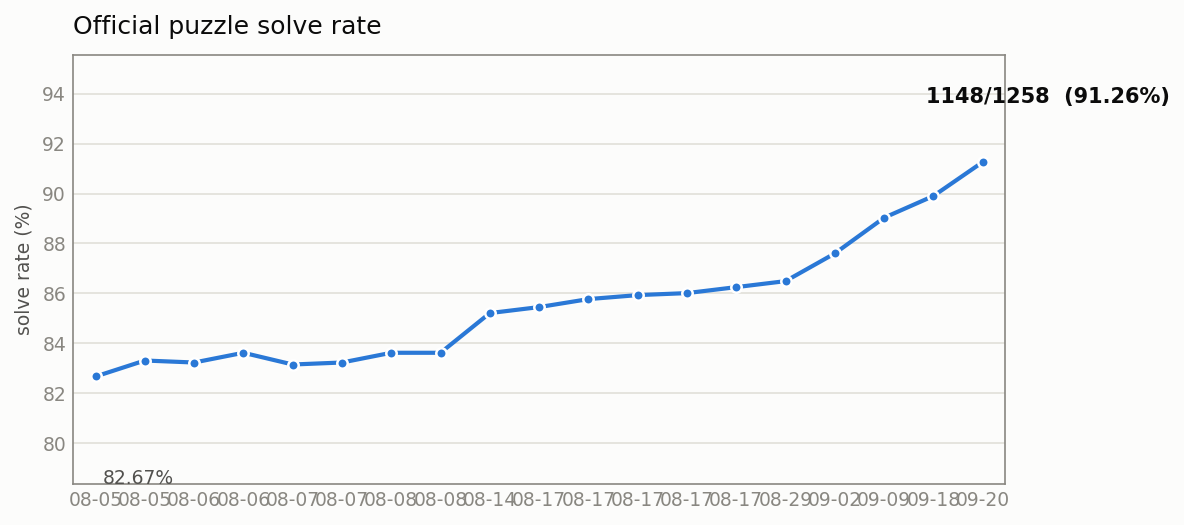
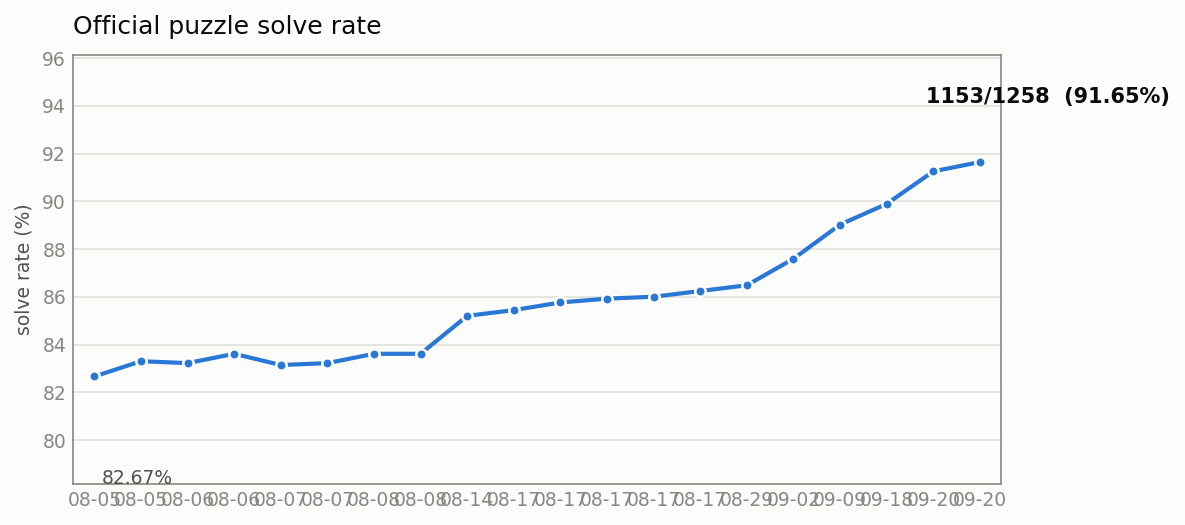
chore: 进度图更新至 1153/1258（91.65%）
追加 2026-09-20 里程碑（23d9b28/7ef7fc4）：boxy 单洞 + size_sep 合并
过度剪枝修复，新解 9 道 via edge_csp。较 1130 基线净 +23。

diff --git a/web/public/trend/index.html b/web/public/trend/index.html
@@ -68,123 +68,128 @@ a { color: var(--series); }
   <h1>官方谜题求解能力变化</h1>
   <p class="sub">官方谜题 (puzzles/official, 排除 -answer 目录) · 共 1258 题 · 数据源 docs/solver-history.json</p>
   <div class="hero">
-    <span class="num">91.26%</span>
-    <span class="unit">1148 / 1258 题解出</span>
+    <span class="num">91.65%</span>
+    <span class="unit">1153 / 1258 题解出</span>
   </div>
-  <span class="delta">较上次 ▲ <span class="up">1.36%</span>（1148/1258）</span>
+  <span class="delta">较上次 ▲ <span class="up">0.39%</span>（1153/1258）</span>
   <div id="chart-wrap" style="position:relative"><div class="tooltip" id="tooltip" style="visibility:hidden"></div><svg id="chart" viewBox="0 0 840 380" role="img" aria-label="官方题求解率变化曲线">
 <line class="grid" x1="60" y1="340.0" x2="816" y2="340.0"/>
-<text class="axis" x="50" y="344.0" text-anchor="end">79.7%</text>
+<text class="axis" x="50" y="344.0" text-anchor="end">79.5%</text>
 <line class="grid" x1="60" y1="234.7" x2="816" y2="234.7"/>
-<text class="axis" x="50" y="238.7" text-anchor="end">84.5%</text>
+<text class="axis" x="50" y="238.7" text-anchor="end">84.6%</text>
 <line class="grid" x1="60" y1="129.3" x2="816" y2="129.3"/>
-<text class="axis" x="50" y="133.3" text-anchor="end">89.4%</text>
+<text class="axis" x="50" y="133.3" text-anchor="end">89.7%</text>
 <line class="grid" x1="60" y1="24.0" x2="816" y2="24.0"/>
-<text class="axis" x="50" y="28.0" text-anchor="end">94.3%</text>
-<polyline class="line" points="60.0,274.9 102.0,261.1 144.0,262.8 186.0,254.4 228.0,264.6 270.0,262.8 312.0,254.4 354.0,254.4 396.0,220.0 438.0,214.8 480.0,207.9 522.0,204.4 564.0,202.7 606.0,197.5 648.0,192.3 690.0,168.3 732.0,137.3 774.0,118.5 816.0,89.1" fill="none"/>
+<text class="axis" x="50" y="28.0" text-anchor="end">94.8%</text>
+<polyline class="line" points="60.0,274.9 99.8,261.7 139.6,263.3 179.4,255.3 219.2,265.0 258.9,263.3 298.7,255.3 338.5,255.3 378.3,222.4 418.1,217.4 457.9,210.8 497.7,207.5 537.5,205.8 577.3,200.8 617.1,195.9 656.8,172.9 696.6,143.3 736.4,125.3 776.2,97.1 816.0,89.1" fill="none"/>
 <circle class="point" cx="60.0" cy="274.9" r="4.5">
 <title>2026-08-05  33d32c5
 1040/1258  (82.67%)</title>
 </circle>
 <text class="axis" x="60.0" y="366" text-anchor="middle">08-05</text>
-<circle class="point" cx="102.0" cy="261.1" r="4.5">
+<circle class="point" cx="99.8" cy="261.7" r="4.5">
 <title>2026-08-05  4733f59
 1048/1258  (83.31%)</title>
 </circle>
-<text class="axis" x="102.0" y="366" text-anchor="middle">08-05</text>
-<circle class="point" cx="144.0" cy="262.8" r="4.5">
+<text class="axis" x="99.8" y="366" text-anchor="middle">08-05</text>
+<circle class="point" cx="139.6" cy="263.3" r="4.5">
 <title>2026-08-06  7e569e7
 1047/1258  (83.23%)</title>
 </circle>
-<text class="axis" x="144.0" y="366" text-anchor="middle">08-06</text>
-<circle class="point" cx="186.0" cy="254.4" r="4.5">
+<text class="axis" x="139.6" y="366" text-anchor="middle">08-06</text>
+<circle class="point" cx="179.4" cy="255.3" r="4.5">
 <title>2026-08-06  dfadfe3
 1052/1258  (83.62%)</title>
 </circle>
-<text class="axis" x="186.0" y="366" text-anchor="middle">08-06</text>
-<circle class="point" cx="228.0" cy="264.6" r="4.5">
+<text class="axis" x="179.4" y="366" text-anchor="middle">08-06</text>
+<circle class="point" cx="219.2" cy="265.0" r="4.5">
 <title>2026-08-07  6169df3
 1046/1258  (83.15%)</title>
 </circle>
-<text class="axis" x="228.0" y="366" text-anchor="middle">08-07</text>
-<circle class="point" cx="270.0" cy="262.8" r="4.5">
+<text class="axis" x="219.2" y="366" text-anchor="middle">08-07</text>
+<circle class="point" cx="258.9" cy="263.3" r="4.5">
 <title>2026-08-07  cd40cab
 1047/1258  (83.23%)</title>
 </circle>
-<text class="axis" x="270.0" y="366" text-anchor="middle">08-07</text>
-<circle class="point" cx="312.0" cy="254.4" r="4.5">
+<text class="axis" x="258.9" y="366" text-anchor="middle">08-07</text>
+<circle class="point" cx="298.7" cy="255.3" r="4.5">
 <title>2026-08-08  bd2f5f5
 1052/1258  (83.62%)</title>
 </circle>
-<text class="axis" x="312.0" y="366" text-anchor="middle">08-08</text>
-<circle class="point" cx="354.0" cy="254.4" r="4.5">
+<text class="axis" x="298.7" y="366" text-anchor="middle">08-08</text>
+<circle class="point" cx="338.5" cy="255.3" r="4.5">
 <title>2026-08-08  shape-cap-aog
 1052/1258  (83.62%)</title>
 </circle>
-<text class="axis" x="354.0" y="366" text-anchor="middle">08-08</text>
-<circle class="point" cx="396.0" cy="220.0" r="4.5">
+<text class="axis" x="338.5" y="366" text-anchor="middle">08-08</text>
+<circle class="point" cx="378.3" cy="222.4" r="4.5">
 <title>2026-08-14  edge-csp-solver
 1072/1258  (85.21%)</title>
 </circle>
-<text class="axis" x="396.0" y="366" text-anchor="middle">08-14</text>
-<circle class="point" cx="438.0" cy="214.8" r="4.5">
+<text class="axis" x="378.3" y="366" text-anchor="middle">08-14</text>
+<circle class="point" cx="418.1" cy="217.4" r="4.5">
 <title>2026-08-17  8758659
 1075/1258  (85.45%)</title>
 </circle>
-<text class="axis" x="438.0" y="366" text-anchor="middle">08-17</text>
-<circle class="point" cx="480.0" cy="207.9" r="4.5">
+<text class="axis" x="418.1" y="366" text-anchor="middle">08-17</text>
+<circle class="point" cx="457.9" cy="210.8" r="4.5">
 <title>2026-08-17  dbe2f65
 1079/1258  (85.77%)</title>
 </circle>
-<text class="axis" x="480.0" y="366" text-anchor="middle">08-17</text>
-<circle class="point" cx="522.0" cy="204.4" r="4.5">
+<text class="axis" x="457.9" y="366" text-anchor="middle">08-17</text>
+<circle class="point" cx="497.7" cy="207.5" r="4.5">
 <title>2026-08-17  04ea400
 1081/1258  (85.93%)</title>
 </circle>
-<text class="axis" x="522.0" y="366" text-anchor="middle">08-17</text>
-<circle class="point" cx="564.0" cy="202.7" r="4.5">
+<text class="axis" x="497.7" y="366" text-anchor="middle">08-17</text>
+<circle class="point" cx="537.5" cy="205.8" r="4.5">
 <title>2026-08-17  d3d9c52
 1082/1258  (86.01%)</title>
 </circle>
-<text class="axis" x="564.0" y="366" text-anchor="middle">08-17</text>
-<circle class="point" cx="606.0" cy="197.5" r="4.5">
+<text class="axis" x="537.5" y="366" text-anchor="middle">08-17</text>
+<circle class="point" cx="577.3" cy="200.8" r="4.5">
 <title>2026-08-17  150005f
 1085/1258  (86.25%)</title>
 </circle>
-<text class="axis" x="606.0" y="366" text-anchor="middle">08-17</text>
-<circle class="point" cx="648.0" cy="192.3" r="4.5">
+<text class="axis" x="577.3" y="366" text-anchor="middle">08-17</text>
+<circle class="point" cx="617.1" cy="195.9" r="4.5">
 <title>2026-08-29  4be9922
 1088/1258  (86.49%)</title>
 </circle>
-<text class="axis" x="648.0" y="366" text-anchor="middle">08-29</text>
-<circle class="point" cx="690.0" cy="168.3" r="4.5">
+<text class="axis" x="617.1" y="366" text-anchor="middle">08-29</text>
+<circle class="point" cx="656.8" cy="172.9" r="4.5">
 <title>2026-09-02  c10e181
 1102/1258  (87.60%)</title>
 </circle>
-<text class="axis" x="690.0" y="366" text-anchor="middle">09-02</text>
-<circle class="point" cx="732.0" cy="137.3" r="4.5">
+<text class="axis" x="656.8" y="366" text-anchor="middle">09-02</text>
+<circle class="point" cx="696.6" cy="143.3" r="4.5">
 <title>2026-09-09  a04a4ad
 1120/1258  (89.03%)</title>
 </circle>
-<text class="axis" x="732.0" y="366" text-anchor="middle">09-09</text>
-<circle class="point" cx="774.0" cy="118.5" r="4.5">
+<text class="axis" x="696.6" y="366" text-anchor="middle">09-09</text>
+<circle class="point" cx="736.4" cy="125.3" r="4.5">
 <title>2026-09-18  3444bec
 1131/1258  (89.90%)</title>
 </circle>
-<text class="axis" x="774.0" y="366" text-anchor="middle">09-18</text>
-<circle class="point" cx="816.0" cy="89.1" r="4.5">
+<text class="axis" x="736.4" y="366" text-anchor="middle">09-18</text>
+<circle class="point" cx="776.2" cy="97.1" r="4.5">
 <title>2026-09-20  804b88c
 1148/1258  (91.26%)</title>
+</circle>
+<text class="axis" x="776.2" y="366" text-anchor="middle">09-20</text>
+<circle class="point" cx="816.0" cy="89.1" r="4.5">
+<title>2026-09-20  7ef7fc4
+1153/1258  (91.65%)</title>
 </circle>
 <text class="axis" x="816.0" y="366" text-anchor="middle">09-20</text>
 <line class="crosshair" id="crosshair" y1="0" y2="0" visibility="hidden"/>
 </svg></div>
-  <table><thead><tr><th>日期</th><th>commit</th><th class='num'>通过</th><th class='num'>占比</th></tr></thead><tbody><tr class="latest"><td>2026-09-20</td><td>804b88c</td><td class="num">1148/1258</td><td class="num">91.26%</td></tr><tr><td>2026-09-18</td><td>3444bec</td><td class="num">1131/1258</td><td class="num">89.90%</td></tr><tr><td>2026-09-09</td><td>a04a4ad</td><td class="num">1120/1258</td><td class="num">89.03%</td></tr><tr><td>2026-09-02</td><td>c10e181</td><td class="num">1102/1258</td><td class="num">87.60%</td></tr><tr><td>2026-08-29</td><td>4be9922</td><td class="num">1088/1258</td><td class="num">86.49%</td></tr><tr><td>2026-08-17</td><td>150005f</td><td class="num">1085/1258</td><td class="num">86.25%</td></tr><tr><td>2026-08-17</td><td>d3d9c52</td><td class="num">1082/1258</td><td class="num">86.01%</td></tr><tr><td>2026-08-17</td><td>04ea400</td><td class="num">1081/1258</td><td class="num">85.93%</td></tr><tr><td>2026-08-17</td><td>dbe2f65</td><td class="num">1079/1258</td><td class="num">85.77%</td></tr><tr><td>2026-08-17</td><td>8758659</td><td class="num">1075/1258</td><td class="num">85.45%</td></tr><tr><td>2026-08-14</td><td>edge-csp-solver</td><td class="num">1072/1258</td><td class="num">85.21%</td></tr><tr><td>2026-08-08</td><td>shape-cap-aog</td><td class="num">1052/1258</td><td class="num">83.62%</td></tr><tr><td>2026-08-08</td><td>bd2f5f5</td><td class="num">1052/1258</td><td class="num">83.62%</td></tr><tr><td>2026-08-07</td><td>cd40cab</td><td class="num">1047/1258</td><td class="num">83.23%</td></tr><tr><td>2026-08-07</td><td>6169df3</td><td class="num">1046/1258</td><td class="num">83.15%</td></tr><tr><td>2026-08-06</td><td>dfadfe3</td><td class="num">1052/1258</td><td class="num">83.62%</td></tr><tr><td>2026-08-06</td><td>7e569e7</td><td class="num">1047/1258</td><td class="num">83.23%</td></tr><tr><td>2026-08-05</td><td>4733f59</td><td class="num">1048/1258</td><td class="num">83.31%</td></tr><tr><td>2026-08-05</td><td>33d32c5</td><td class="num">1040/1258</td><td class="num">82.67%</td></tr></tbody></table>
+  <table><thead><tr><th>日期</th><th>commit</th><th class='num'>通过</th><th class='num'>占比</th></tr></thead><tbody><tr class="latest"><td>2026-09-20</td><td>7ef7fc4</td><td class="num">1153/1258</td><td class="num">91.65%</td></tr><tr><td>2026-09-20</td><td>804b88c</td><td class="num">1148/1258</td><td class="num">91.26%</td></tr><tr><td>2026-09-18</td><td>3444bec</td><td class="num">1131/1258</td><td class="num">89.90%</td></tr><tr><td>2026-09-09</td><td>a04a4ad</td><td class="num">1120/1258</td><td class="num">89.03%</td></tr><tr><td>2026-09-02</td><td>c10e181</td><td class="num">1102/1258</td><td class="num">87.60%</td></tr><tr><td>2026-08-29</td><td>4be9922</td><td class="num">1088/1258</td><td class="num">86.49%</td></tr><tr><td>2026-08-17</td><td>150005f</td><td class="num">1085/1258</td><td class="num">86.25%</td></tr><tr><td>2026-08-17</td><td>d3d9c52</td><td class="num">1082/1258</td><td class="num">86.01%</td></tr><tr><td>2026-08-17</td><td>04ea400</td><td class="num">1081/1258</td><td class="num">85.93%</td></tr><tr><td>2026-08-17</td><td>dbe2f65</td><td class="num">1079/1258</td><td class="num">85.77%</td></tr><tr><td>2026-08-17</td><td>8758659</td><td class="num">1075/1258</td><td class="num">85.45%</td></tr><tr><td>2026-08-14</td><td>edge-csp-solver</td><td class="num">1072/1258</td><td class="num">85.21%</td></tr><tr><td>2026-08-08</td><td>shape-cap-aog</td><td class="num">1052/1258</td><td class="num">83.62%</td></tr><tr><td>2026-08-08</td><td>bd2f5f5</td><td class="num">1052/1258</td><td class="num">83.62%</td></tr><tr><td>2026-08-07</td><td>cd40cab</td><td class="num">1047/1258</td><td class="num">83.23%</td></tr><tr><td>2026-08-07</td><td>6169df3</td><td class="num">1046/1258</td><td class="num">83.15%</td></tr><tr><td>2026-08-06</td><td>dfadfe3</td><td class="num">1052/1258</td><td class="num">83.62%</td></tr><tr><td>2026-08-06</td><td>7e569e7</td><td class="num">1047/1258</td><td class="num">83.23%</td></tr><tr><td>2026-08-05</td><td>4733f59</td><td class="num">1048/1258</td><td class="num">83.31%</td></tr><tr><td>2026-08-05</td><td>33d32c5</td><td class="num">1040/1258</td><td class="num">82.67%</td></tr></tbody></table>
   <p class="sub" style="margin-top:24px">曲线纵轴为缩放后的求解率区间（非 0–100），
   以突出小幅变化；完整数值见下表与仓库内 <code>docs/solver-history.json</code>。</p>
 </div>
 <script>
-const DATA = [{"date": "2026-08-05", "commit": "33d32c5", "passed": 1040, "total": 1258, "pct": 82.67}, {"date": "2026-08-05", "commit": "4733f59", "passed": 1048, "total": 1258, "pct": 83.31}, {"date": "2026-08-06", "commit": "7e569e7", "passed": 1047, "total": 1258, "pct": 83.23}, {"date": "2026-08-06", "commit": "dfadfe3", "passed": 1052, "total": 1258, "pct": 83.62}, {"date": "2026-08-07", "commit": "6169df3", "passed": 1046, "total": 1258, "pct": 83.15}, {"date": "2026-08-07", "commit": "cd40cab", "passed": 1047, "total": 1258, "pct": 83.23}, {"date": "2026-08-08", "commit": "bd2f5f5", "passed": 1052, "total": 1258, "pct": 83.62}, {"date": "2026-08-08", "commit": "shape-cap-aog", "passed": 1052, "total": 1258, "pct": 83.62}, {"date": "2026-08-14", "commit": "edge-csp-solver", "passed": 1072, "total": 1258, "pct": 85.21}, {"date": "2026-08-17", "commit": "8758659", "passed": 1075, "total": 1258, "pct": 85.45}, {"date": "2026-08-17", "commit": "dbe2f65", "passed": 1079, "total": 1258, "pct": 85.77}, {"date": "2026-08-17", "commit": "04ea400", "passed": 1081, "total": 1258, "pct": 85.93}, {"date": "2026-08-17", "commit": "d3d9c52", "passed": 1082, "total": 1258, "pct": 86.01}, {"date": "2026-08-17", "commit": "150005f", "passed": 1085, "total": 1258, "pct": 86.25}, {"date": "2026-08-29", "commit": "4be9922", "passed": 1088, "total": 1258, "pct": 86.49}, {"date": "2026-09-02", "commit": "c10e181", "passed": 1102, "total": 1258, "pct": 87.6}, {"date": "2026-09-09", "commit": "a04a4ad", "passed": 1120, "total": 1258, "pct": 89.03}, {"date": "2026-09-18", "commit": "3444bec", "passed": 1131, "total": 1258, "pct": 89.9}, {"date": "2026-09-20", "commit": "804b88c", "passed": 1148, "total": 1258, "pct": 91.26}];
+const DATA = [{"date": "2026-08-05", "commit": "33d32c5", "passed": 1040, "total": 1258, "pct": 82.67}, {"date": "2026-08-05", "commit": "4733f59", "passed": 1048, "total": 1258, "pct": 83.31}, {"date": "2026-08-06", "commit": "7e569e7", "passed": 1047, "total": 1258, "pct": 83.23}, {"date": "2026-08-06", "commit": "dfadfe3", "passed": 1052, "total": 1258, "pct": 83.62}, {"date": "2026-08-07", "commit": "6169df3", "passed": 1046, "total": 1258, "pct": 83.15}, {"date": "2026-08-07", "commit": "cd40cab", "passed": 1047, "total": 1258, "pct": 83.23}, {"date": "2026-08-08", "commit": "bd2f5f5", "passed": 1052, "total": 1258, "pct": 83.62}, {"date": "2026-08-08", "commit": "shape-cap-aog", "passed": 1052, "total": 1258, "pct": 83.62}, {"date": "2026-08-14", "commit": "edge-csp-solver", "passed": 1072, "total": 1258, "pct": 85.21}, {"date": "2026-08-17", "commit": "8758659", "passed": 1075, "total": 1258, "pct": 85.45}, {"date": "2026-08-17", "commit": "dbe2f65", "passed": 1079, "total": 1258, "pct": 85.77}, {"date": "2026-08-17", "commit": "04ea400", "passed": 1081, "total": 1258, "pct": 85.93}, {"date": "2026-08-17", "commit": "d3d9c52", "passed": 1082, "total": 1258, "pct": 86.01}, {"date": "2026-08-17", "commit": "150005f", "passed": 1085, "total": 1258, "pct": 86.25}, {"date": "2026-08-29", "commit": "4be9922", "passed": 1088, "total": 1258, "pct": 86.49}, {"date": "2026-09-02", "commit": "c10e181", "passed": 1102, "total": 1258, "pct": 87.6}, {"date": "2026-09-09", "commit": "a04a4ad", "passed": 1120, "total": 1258, "pct": 89.03}, {"date": "2026-09-18", "commit": "3444bec", "passed": 1131, "total": 1258, "pct": 89.9}, {"date": "2026-09-20", "commit": "804b88c", "passed": 1148, "total": 1258, "pct": 91.26}, {"date": "2026-09-20", "commit": "7ef7fc4", "passed": 1153, "total": 1258, "pct": 91.65}];
 const svg = document.getElementById('chart');
 const cross = document.getElementById('crosshair');
 const tip = document.getElementById('tooltip');
